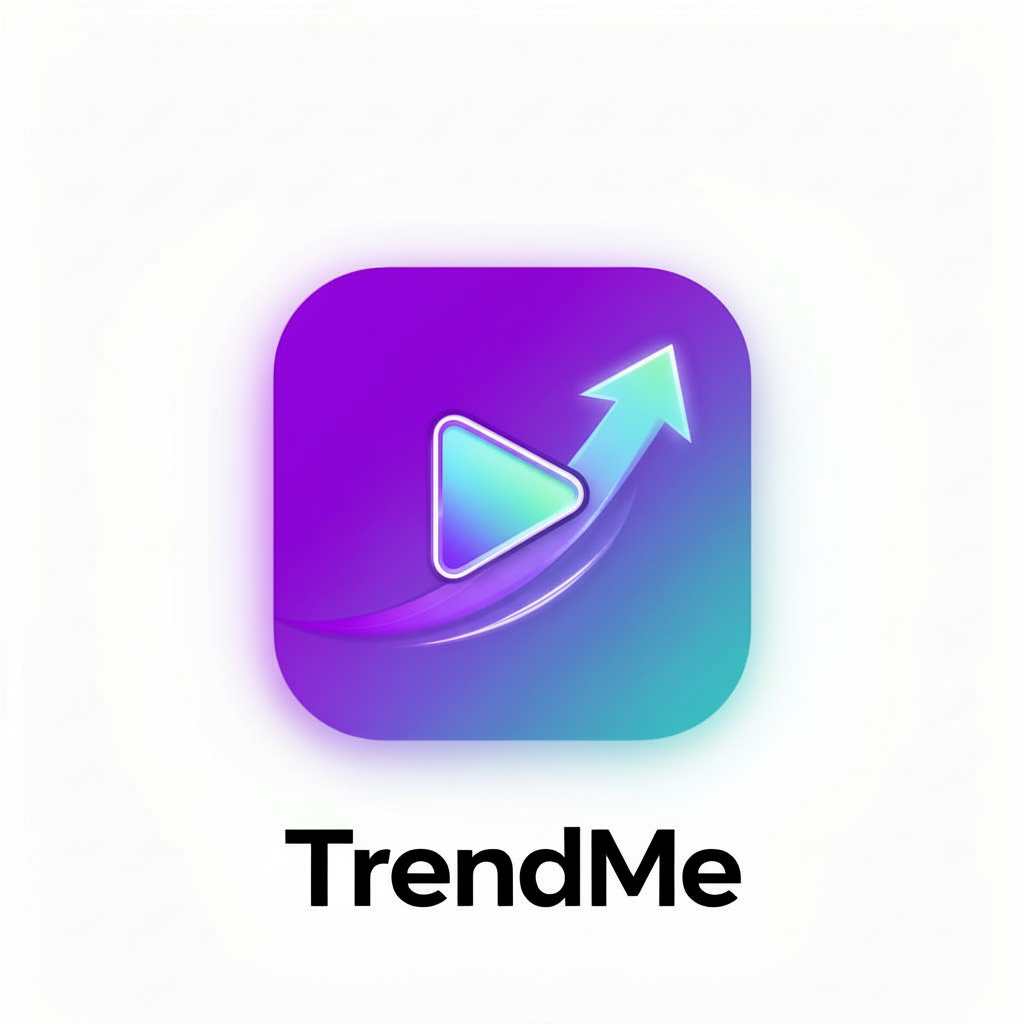
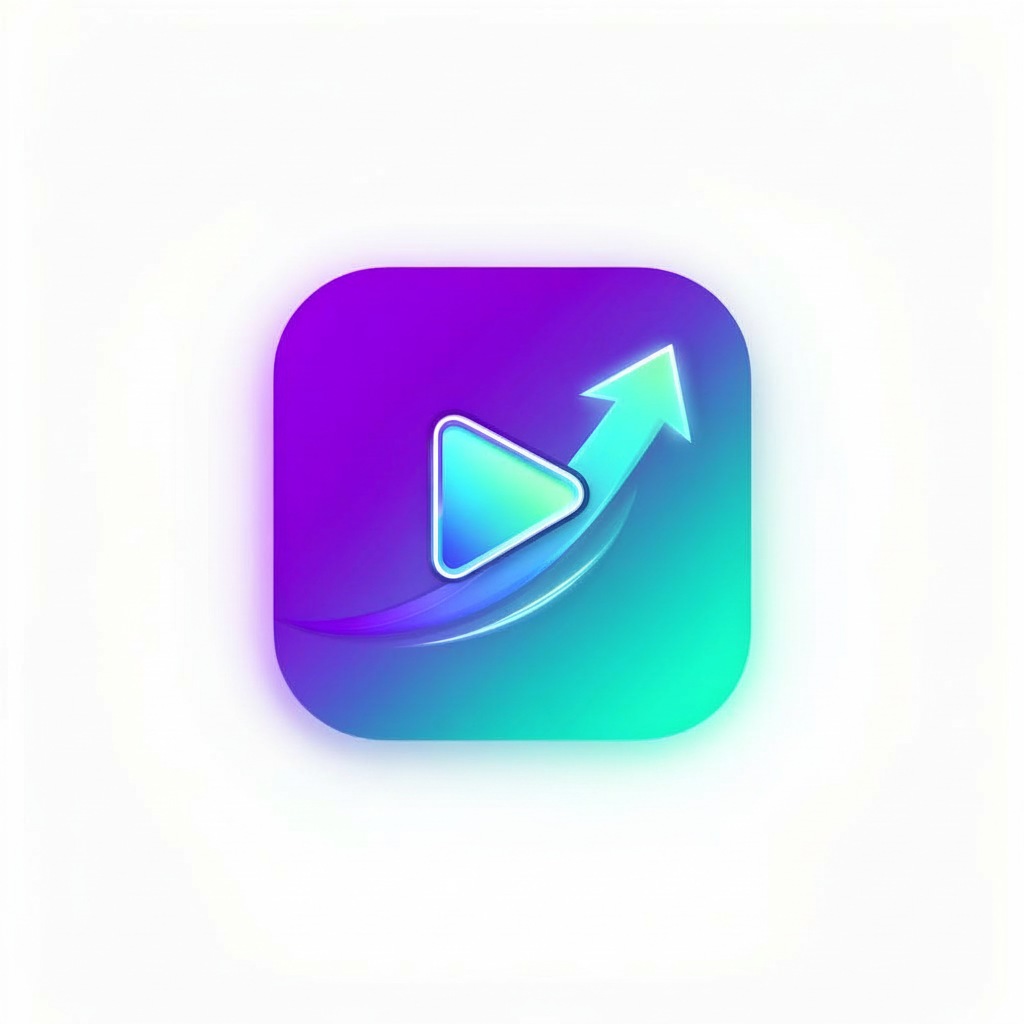
Обновил иконку сайдбара

Changed region(s): [[0.25, 0.25, 0.75, 0.75], [0.2812, 0.8125, 0.7188, 0.9062]]

diff --git a/src/components/layout/MobileSidebarDrawer.tsx b/src/components/layout/MobileSidebarDrawer.tsx
@@ -81,7 +81,7 @@ export function MobileSidebarDrawer({ open, onClose }: Props) {
     <Sheet open={open} onOpenChange={(v) => !v && onClose()}>
       <SheetContent side="left" className="w-[280px] p-0 bg-card">
         <SheetHeader className="px-4 h-14 border-b border-border/50 flex flex-row items-center gap-2.5">
-          <img src={logoImg} alt="TrendMe" className="h-8 w-8 rounded-lg shrink-0 object-cover" />
+          <img src={logoIcon} alt="TrendMe" className="h-8 w-8 rounded-lg shrink-0 object-cover" />
           <SheetTitle className="font-bold text-base text-foreground tracking-tight">TrendMe</SheetTitle>
           <span className="text-[9px] font-bold bg-primary/10 text-primary px-1.5 py-0.5 rounded-md uppercase">Beta</span>
         </SheetHeader>

diff --git a/src/components/layout/AppSidebar.tsx b/src/components/layout/AppSidebar.tsx
@@ -102,7 +102,7 @@ export function AppSidebar({ collapsed, onToggle }: AppSidebarProps) {
     >
       {/* Logo */}
       <div className="flex items-center gap-2.5 px-4 h-14 border-b border-sidebar-border shrink-0">
-        <img src={logoImg} alt="TrendMe" className="h-8 w-8 rounded-lg shrink-0 object-cover" />
+        <img src={logoIcon} alt="TrendMe" className="h-8 w-8 rounded-lg shrink-0 object-cover" />
         {!collapsed && (
           <div className="flex items-center gap-1.5">
             <span className="font-bold text-base text-foreground tracking-tight">TrendMe</span>
